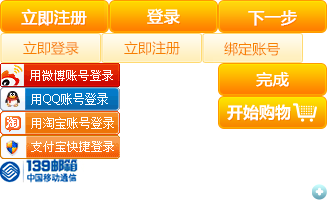
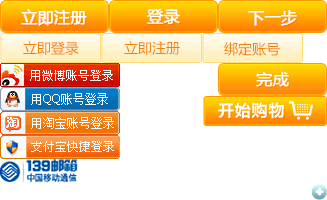
找回密码修改

Changed region(s): [[0.6116, 0.48, 1.0, 0.66], [0.9786, 0.48, 1.0, 0.51]]

diff --git a/website/usercenter_invitation.html b/website/usercenter_invitation.html
@@ -1,0 +1,111 @@
+<!DOCTYPE html PUBLIC "-//W3C//DTD XHTML 1.0 Transitional//EN"
+        "http://www.w3.org/TR/xhtml1/DTD/xhtml1-transitional.dtd">
+<html xmlns="http://www.w3.org/1999/xhtml">
+<head>
+    <meta http-equiv="Content-Type" content="text/html; charset=utf-8"/>
+    <title></title>
+    <link href="css/reset.css" rel="stylesheet"/>
+    <link href="css/base.css" rel="stylesheet"/>
+    <link href="css/usercenter.css" rel="stylesheet"/>
+    <script src="js/head.min.js"></script>
+
+</head>
+<body>
+<div class="wrapper">
+    <div class="wrap-menu fl">
+        <dl class="mod-menu">
+            <dt class="mod-hd">
+            <h3>订单中心</h3>
+            </dt>
+            <dd class="mod-bd">
+                <ul class="list-menu">
+                    <li><a href="CustomerCenter_Order.aspx" id="CustomerCenter_Order">我的订单</a></li>
+                    <li><a href="CustomerCenter_favorites.aspx" id="CustomerCenter_favorites">我的收藏</a></li>
+                    <li><a href="CustomerCenter_StockRegister.aspx" id="CustomerCenter_StockRegister">我的到货通知</a></li>
+                </ul>
+            </dd>
+        </dl>
+
+        <dl class="mod-menu">
+            <dt class="mod-hd">
+            <h3>账户中心</h3>
+            </dt>
+            <dd class="mod-bd">
+                <ul class="list-menu">
+                    <li><a href="CustomerCenter_Info.aspx" id="CustomerCenter_Info">基本信息</a></li>
+                    <li><a href="CustomerCenter_ChangePsw.aspx" id="CustomerCenter_ChangePsw">账户安全</a></li>
+                    <li><a href="CustomerCenter_Baby.aspx" id="CustomerCenter_Baby">宝宝信息</a></li>
+                    <li><a href="CustomerCenter_Consignee.aspx" id="CustomerCenter_Consignee">收货地址</a></li>
+                    <li><a href="CustomerCenter_MyScores.aspx" id="CustomerCenter_MyScores">幸运星积分</a></li>
+                    <li><a href="CustomerCenter_Coupon.aspx" id="CustomerCenter_Coupon">优惠券</a></li>
+                    <li class="status-hover"><a href="CustomerCenter_MyFriend.aspx"
+                                                id="CustomerCenter_MyFriend">邀请好友</a></li>
+                    <li><a href="CustomerCenter_binding.aspx" id="CustomerCenter_binding">社交绑定</a></li>
+                </ul>
+            </dd>
+        </dl>
+
+        <dl class="mod-menu">
+            <dt class="mod-hd">
+            <h3>社区中心</h3>
+            </dt>
+            <dd class="mod-bd">
+                <ul class="list-menu">
+                    <li><a href="CustomerCenter_Consult.aspx" id="CustomerCenter_Consult">商品咨询</a></li>
+                    <li><a href="CustomerCenter_Discussion.aspx" id="CustomerCenter_Discussion">我的评价</a></li>
+                    <li><a href="CustomerCenter_Suggestion.aspx" id="CustomerCenter_Suggestion">投诉与建议</a></li>
+                </ul>
+            </dd>
+        </dl>
+    </div>
+
+    <div class="wrap-mycenter fr">
+        <div id="ConMain" class="mod-info mod-coupon">
+            <div class="mod-hd"><h3>邀请好友</h3></div>
+            <div class="mod-bd">
+                <div class="mod-content invitation-form">
+                    <form accept-charset="UTF-8" action="" class="form" id="invitationForm" method="post">
+                        <fieldset>
+                            <legend>通过电子邮件邀请好友</legend>
+                            <div class="control-group">
+                                <label class="control-label"></label>
+                                <div class="controls">
+                                    <input class="text-input mr10" id="friendEmail" name="friendEmail" size="50" type="text" placeholder="请填入好友的邮箱" /><div id="friendEmailTip" class="stickTips"></div><span class="btn_m btn_m_o ml10" ><a herf="" id="submitbutton">&nbsp;发送邀请&nbsp;</a></span>
+                                    <div id="friendEmailFixTip" class="floatTips">请填入好友的邮箱</div>
+                                </div>
+                            </div>
+                        </fieldset>
+                    </form>
+
+
+                </div>
+                <div class="mod-content invitation-list">
+                    <h4>已邀请的好友</h4>
+                    <dl>
+                        <dt></dt>
+                        <dd>张波</dd>
+                        <dd>zb1519@gmail.com</dd>
+                        <dd class="status font-red">邀请已发送</dd>
+                    </dl>
+                    <dl>
+                        <dt></dt>
+                        <dd>张波</dd>
+                        <dd>zb1519@gmail.com</dd>
+                        <dd class="status font-green">已注册</dd>
+                    </dl>
+                </div>
+                <!--mod-content-->
+            </div>
+        </div>
+    </div>
+</div>
+<!--wrapper-->
+</body>
+<script type="text/javascript">
+    head.js("js/jquery-1.7.2.min.js",
+            "js/jqueryplugin/formvalidator/formValidator-4.1.3.js",
+            "js/jqueryplugin/formvalidator/formValidatorRegex.js",
+            "js/my/usercenter.js"
+    );
+</script>
+</html>

diff --git a/website/js/my/usercenter.js b/website/js/my/usercenter.js
@@ -286,6 +286,33 @@ $(function () {
     });
 });
 
+// 邀请好友 验证
+$(function () {
+    $.formValidator.initConfig({
+        theme:"myzj",
+        submitOnce:true,
+        formID:"invitationForm",
+        onError:function (msg) {
+            alert(msg);
+        },
+        submitAfterAjaxPrompt:'数据正在验证，请稍等...'
+    });
+    $("#friendEmail")
+        .formValidator({
+            onShowFixText:"请填入好友的邮箱",
+            onShow:"请填入好友的邮箱",
+            onFocus:"请填入好友的邮箱",
+            onCorrect:true
+        })
+        .inputValidator({
+            min:3,max:100,onError:"邮箱长度限制为3-100位字符"
+        })
+        .regexValidator({
+            regExp:"^([\\w-.]+)@(([[0-9]{1,3}.[0-9]{1,3}.[0-9]{1,3}.)|(([\\w-]+.)+))([a-zA-Z]{2,4}|[0-9]{1,3})(]?)$"
+            ,onError:"您输入的邮箱格式不正确"
+        });
+});
+
 $(function () {
 
     $("#submitbutton").click(function(e) {

diff --git a/website/css/register.css b/website/css/register.css
@@ -407,7 +407,7 @@
 }
 .suc-title{
     background: url(../images/icon_sucsess.gif) no-repeat 0 0;
-    padding-left:100px;
+    padding-left:70px;
     font-size:22px;
     color:#82be0e;
     height:70px;
@@ -421,15 +421,9 @@
 }
 
 .suc-input-goshop{
-    padding:0;
-    margin:0 30px 0 0;
-    float: left;
-    display:inline;
-    background: url("../images/sign-icons.png") no-repeat scroll -218px -96px transparent;
-    border: 0 none;
-    cursor: pointer;
-    height: 33px;
-    width: 109px
+    background: url("../images/sign-icons.png") no-repeat scroll -203px -96px transparent;
+    height: 32px;
+    width: 124px;
 }
 
 /*找回密码*/
@@ -486,7 +480,7 @@
     color:#82be0e;
     font-size:14px;
     font-weight:bold;
-    padding-left:36px;
+    padding-left:38px;
     height: 36px;
     line-height: 36px;
     background:url(../images/icon_sucsess_s.gif) no-repeat 0 0;

diff --git a/website/forgetpassword-success.html b/website/forgetpassword-success.html
@@ -1,5 +1,5 @@
 <!DOCTYPE html PUBLIC "-//W3C//DTD XHTML 1.0 Transitional//EN" "http://www.w3.org/TR/xhtml1/DTD/xhtml1-transitional.dtd">
-<html xmlns="http://www.w3.org/1999/xhtml">
+<html xmlns="http://www.w3.org/1999/xhtml" xmlns="http://www.w3.org/1999/html">
 <head>
     <meta http-equiv="Content-Type" content="text/html; charset=utf-8" />
     <title></title>
@@ -55,8 +55,8 @@
         <span class="cur">完成</span>
     </div>
         <div class="find-email">
-            <p class="setsuccess">恭喜您，重置密码成功，请牢记您的密码！</p>
-            <div class="btn_m btn_m_o"><a href="" class="fb">开始购物</a></div>
+            <p class="setsuccess">恭喜您，重置密码成功，请牢记您的密码！<a href="" class="suc-input-goshop fr"><em class="hide">开始购物</em> </a></p>
+
         </div>
     </div>
 

diff --git a/website/css/usercenter.css b/website/css/usercenter.css
@@ -70,7 +70,7 @@ textarea:focus, input[type="text"]:focus, input[type="password"]:focus, input[ty
     text-align: center;
     vertical-align: middle;}
 .successtip img{ display: inline-block;   vertical-align: middle;}
-
+ .floatTips{ display:block; clear: both; margin-top:6px;height: 20px; overflow: hidden; position: relative;}
 /*账户安全*/
 .safety-form .control-label{width:160px;}
 .suc-title{padding-left:80px; height:70px;background: url(../images/icon_sucsess.gif) no-repeat 0 0;color:#82be0e;font-weight:700; font-size:22px;line-height:70px;}

diff --git a/website/forgetpassword.html b/website/forgetpassword.html
@@ -79,7 +79,7 @@
             <label class="label">&nbsp;</label>
             <div class="inputCont">
                  <div class="argWrap">
-                     <input type="button" id="" name="" class="nextstep"  />
+                     <div class="btn_m btn_m_o"><a href="" class="fb" style="padding:0 20px 0 15px">下一步</a></div>
                  </div>
                 <div class="onError" id="errTip"><p class="noticeWrap noticeWrap-err"><b class="ico-warning"></b><span class="txt-err">请求超时</span></p></div>
             </div>

diff --git a/website/css/base.css b/website/css/base.css
@@ -21,6 +21,7 @@ a:hover,.hover{text-decoration:underline;color:#e60000}
 .bd{border:#dedede 1px solid;margin-bottom:10px}
 .hd{padding-left:10px;height:28px;border-bottom:#dedede 1px solid;background:#666 url("../images/hd_sidebar.gif") repeat-x;line-height:28px;font-size:12px;font-weight:700}
 .hd h3{font-weight:700}
+.ml10{margin-left:10px;}
 .mr10{margin-right:10px;}
 /*form*/
 input{border:0 none;vertical-align:middle}

diff --git a/website/reg-success.html b/website/reg-success.html
@@ -47,7 +47,7 @@
         <div class="suc-title   ">恭喜您，注册成功！</div>
 
         <div class="suc-btnlist">
-            <input class="suc-input-goshop" type="button" value="">
+            <input class="suc-input-goshop" type="button" value="" />
             <div class="btn_m btn_m_h indiv-btn"><a href="">我的个人中心</a></div>
         </div>
 

diff --git a/website/usercenter_babyinfo.html b/website/usercenter_babyinfo.html
@@ -194,12 +194,5 @@
             "js/my/usercenter.js"
     );
 </script>
-
-
-
-
-
-
-
 </body>
 </html>
